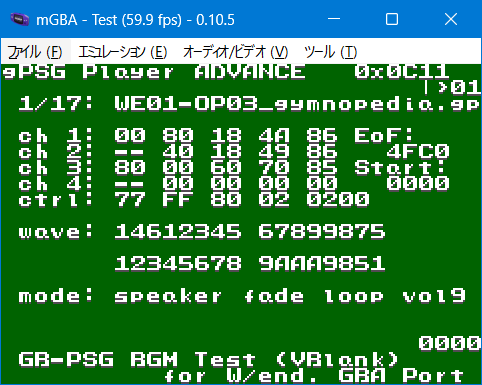
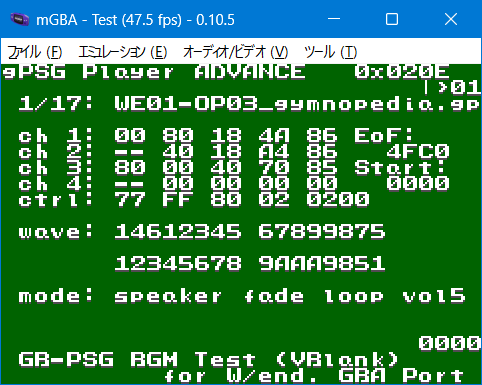
初版

diff --git a/132_shuumatsu_gba/src/libmy/vgm.arm.h b/132_shuumatsu_gba/src/libmy/vgm.arm.h
@@ -12,7 +12,7 @@ extern "C" {
 #define VGM_CMD_EOM			0x66			// end of mark
 #define VGM_CMD_WREG		0xb3			// write register
 #define VGM_VOL_MAX_CNT		9
-#define VGM_VOL_DEF_CNT		6				// 0-9
+#define VGM_VOL_DEF_CNT		5				// 0-9
 
 
 //---------------------------------------------------------------------------

diff --git a/131_shuumatsu_bgm_test/src/main.c b/131_shuumatsu_bgm_test/src/main.c
@@ -57,7 +57,7 @@ int main(void)
 	u32 offset_play = 0;
 	u32 offset_jump = 0;
 	u32 sel = 0;
-	u32 volume = 9;
+	u32 volume = 5;
 	u8 stat = PLAYER_STAT_STOP;
 	s32 opt_loop = 0;
 	s32 opt_waveedit = 0;
